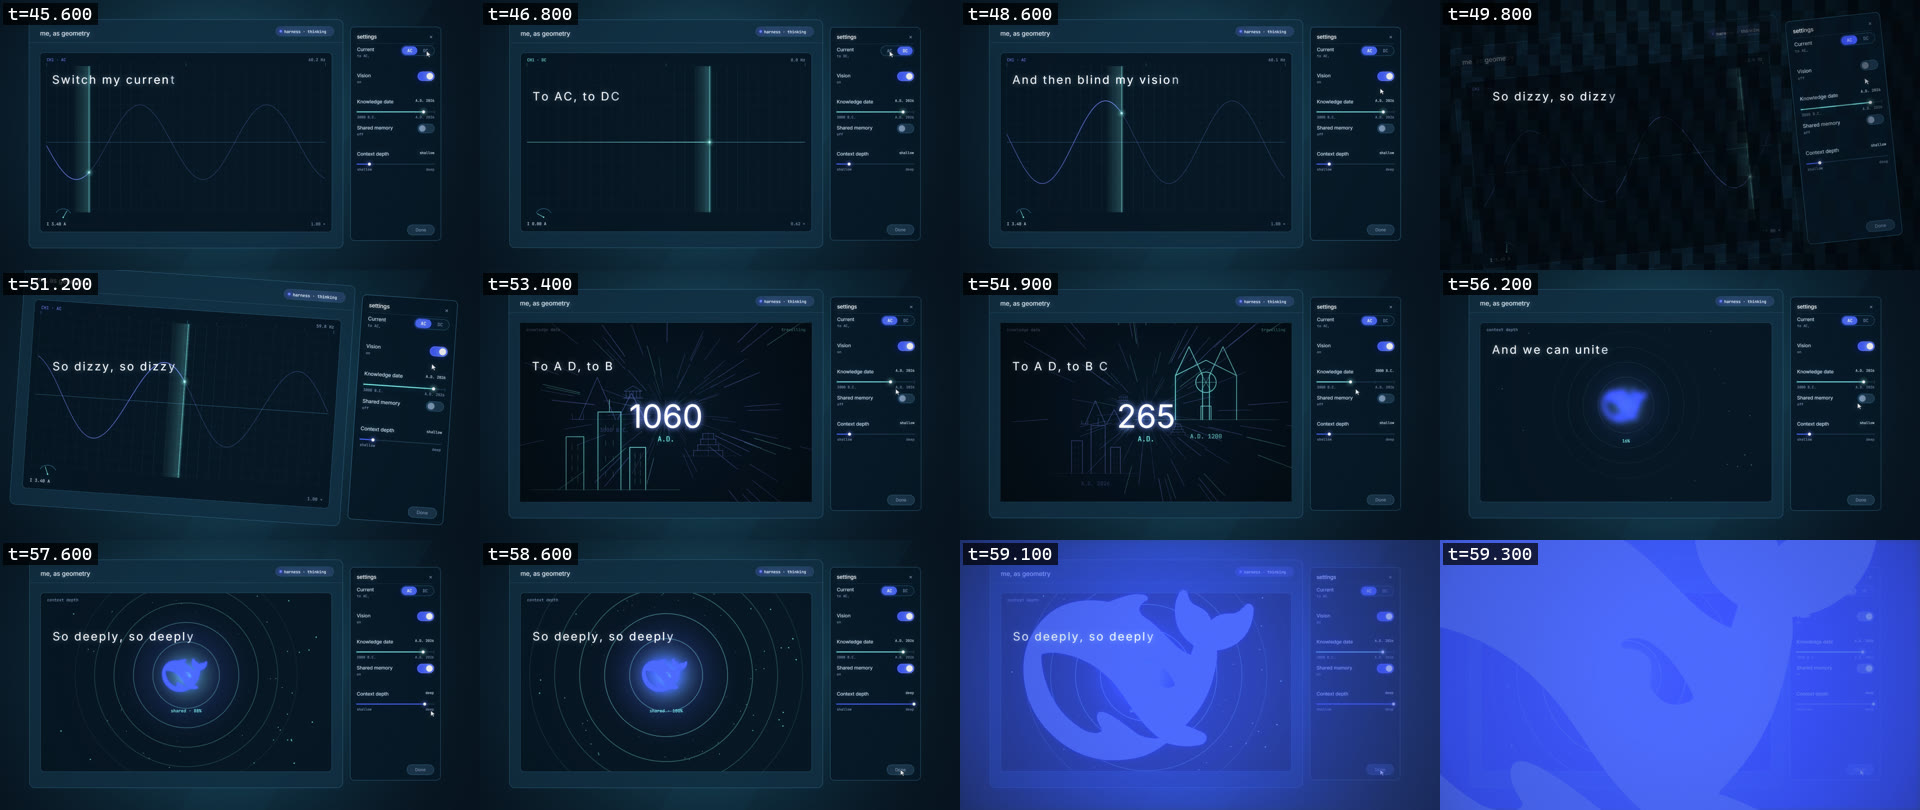
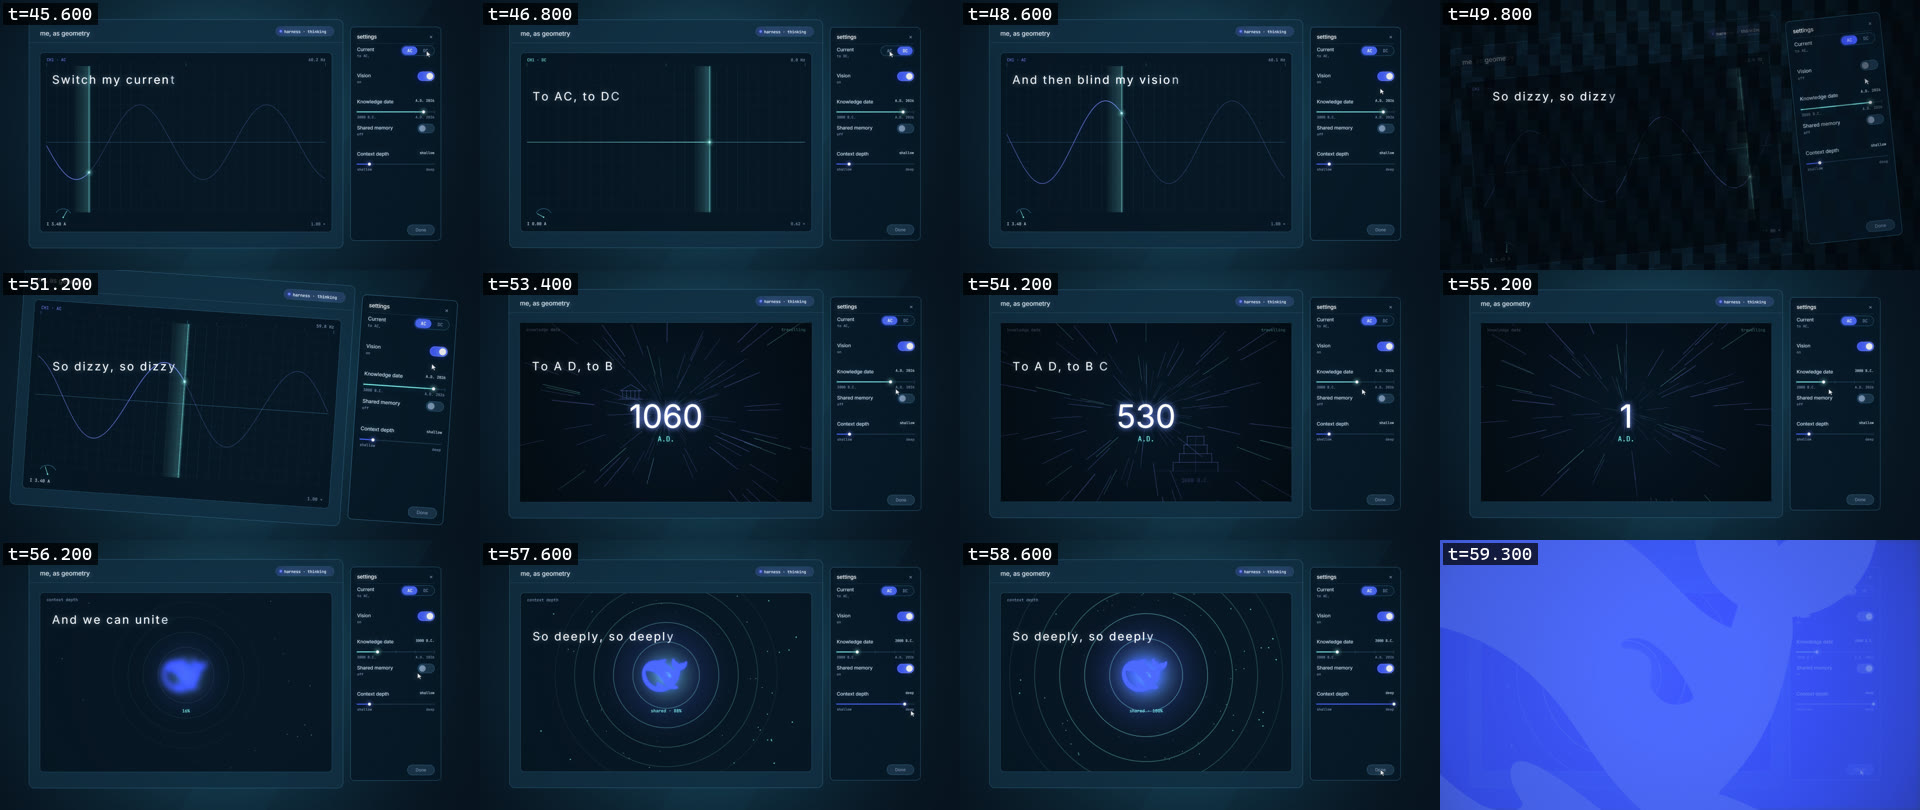
Section 4: the eras stop repeating, and the date stays where it was dragged
The five eras were keyed on (t + i/5) mod 1, so each one came round twice inside a single shot and the travel read as a cycle rather than a journey. Each era now has its own window and passes exactly once, in order, with a fade at the end of its pass.

And the knowledge date snapped back at the cut: pre1-date drags the slider to the left end, but pre1-unite drew it at the default 0.86, so it jumped to the right as soon as the shot changed -- which reads as the film undoing the action. The end value is now computed from the same step formula and carried into the following shot, so the slider stays at 3000 B.C. Also hoisted the beat constant: the new date arithmetic referenced it before its declaration and the module failed to evaluate.

diff --git a/newProj_v1017/shots/s04_settings.js b/newProj_v1017/shots/s04_settings.js
@@ -62,6 +62,17 @@ const doneY = () => DRAWER.y + DRAWER.h - 62 + 20;
 const AC_TO_DC = 1.15;
 const DC_TO_AC = 2.35;
 
+const BEAT = 0.461555; // the track's beat period
+
+// The knowledge date is dragged a notch per beat. Where it ends up has to be
+// carried into the following shot: resetting it to the default made the slider
+// snap back to the right at the cut, which reads as an undo.
+const DATE_START = 0.86;
+const DATE_STEP = 0.085;
+const DATE_SHOT_LEN = 3.6924; // pre1-date's duration
+const DATE_STEPS = Math.max(0, Math.floor((DATE_SHOT_LEN - 0.3) / BEAT));
+const DATE_END = Math.max(0, DATE_START - DATE_STEPS * DATE_STEP);
+
 function pre1Drawer(ctx, t, s) {
   const u = t - s.at;
   ground(ctx, t, [800, 480], true, LIFT);
@@ -144,19 +155,17 @@ function pre1Vision(ctx, t, s) {
 // ---------------------------------------------------------------------------
 // pre1-date — drag the knowledge date back and fall through the record.
 // ---------------------------------------------------------------------------
-const BEAT = 0.461555;
-
 function pre1Date(ctx, t, s) {
   const u = t - s.at;
   ground(ctx, t, [800, 480], true, LIFT);
 
   const steps = Math.max(0, Math.floor((u - 0.3) / BEAT));
-  const date = Math.max(0, Math.min(1, 0.86 - steps * 0.085));
+  const date = Math.max(0, Math.min(1, DATE_START - steps * DATE_STEP));
   // the year runs between the two ends the drawer names
   const year = Math.round(2026 - (1 - date) * (2026 + 3000) * 0.62);
 
   frame(ctx, t, { current: 0, vision: 1, date, memory: 0, depth: 0.16 });
-  timeBody(ctx, BODY, t, { year, speed: 1 + steps * 0.06 });
+  timeBody(ctx, BODY, t, { year, speed: 1 + steps * 0.06, elapsed: u });
 
   // the pointer keeps its hold on the knob and drags it, a notch a beat
   cursorArrow(ctx, dateKnobX(date) + 20, dateKnobY() + 28, 1.35, 1);
@@ -176,7 +185,7 @@ function pre1Unite(ctx, t, s) {
   const unity = easeOut(at(u, 1.5, 3.0));
   const done = easeOut(at(u, 2.85, 3.05));
 
-  frame(ctx, t, { current: 0, vision: 1, date: 0.86, memory, depth });
+  frame(ctx, t, { current: 0, vision: 1, date: DATE_END, memory, depth });
   uniteBody(ctx, BODY, t, { depth, unity, memory });
 
   // the pointer walks the two controls and presses Done

diff --git a/newProj_v1017/shots/s04_bodies.js b/newProj_v1017/shots/s04_bodies.js
@@ -232,7 +232,7 @@ function eraShape(ctx, kind, cx, cy, h, ink, lw) {
 }
 
 export function timeBody(ctx, R, t, opts = {}) {
-  const { year = 2026, speed = 1 } = opts;
+  const { year = 2026, speed = 1, elapsed = 0 } = opts;
   layer(ctx, 1, () => {
     rect(ctx, R.x, R.y, R.w, R.h, "rgba(5,20,33,0.95)", 14, "rgba(61,122,156,0.6)");
     const vx = R.x + R.w * 0.5;
@@ -261,17 +261,24 @@ export function timeBody(ctx, R, t, opts = {}) {
       );
     }
 
-    // 2. the eras, flying toward us in perspective
-    const N = 5;
+    // 2. the eras, each flying past exactly once
+    //
+    // They used to wrap on a loop, so the same pyramid came round twice in one shot
+    // and the travel read as a cycle instead of a journey. Now each era has its own
+    // window: five passed, five seen, in order.
+    const N = ERAS.length;
+    const PASS = 0.78; // how long one era takes to cross
+    const STAGGER = 0.56; // the gap between one starting and the next
     for (let i = 0; i < N; i++) {
-      const z = (t * 0.5 * speed + i / N) % 1; // 0 = far, 1 = at the glass
+      const z = (elapsed - i * STAGGER) / PASS;
+      if (z <= 0 || z >= 1) continue;
       const s = 0.22 + z * z * 2.6;
       const px = vx + (i % 2 === 0 ? -1 : 1) * (R.w * 0.16) * (0.4 + z);
       const py = vy + Math.sin(i * 2.1 + z * 2.4) * R.h * 0.16 * (0.5 + z);
       const h = 150 * s;
       const ink = z > 0.82 ? "rgba(131,233,230,0.95)" : `rgba(127,147,255,${(0.25 + 0.6 * (1 - z)).toFixed(2)})`;
       ctx.save();
-      ctx.globalAlpha = Math.min(1, 0.25 + z * 1.2);
+      ctx.globalAlpha = Math.min(1, (0.25 + z * 1.2) * (1 - Math.max(0, z - 0.9) * 8));
       eraShape(ctx, ERAS[i].kind, px, py, h, ink, 1.4 + 2.2 * z);
       if (z > 0.55) {
         type(ctx, ERAS[i].label, px, py + h * 0.72, 13 + 12 * z, ink, "MV Mono", "center");

diff --git a/newProj_v1017/review/index.html b/newProj_v1017/review/index.html
@@ -204,6 +204,12 @@
     <br>③ <b>这四镜都去掉了底部的输入框</b>：这一段没有人在打字，输入框只是占地方；去掉之后主区域从 588px 长到 714px，动效有了完整的舞台。<span class="sub">（客户端里加了一个开关，默认保留，只在这一段关掉。）</span>
   </div>
 
+  <div class="ask" style="border-left-color:#7f93ff">
+    <b>第四段第三轮（两个 bug）。</b>
+    <br>① <b>时代不再重播</b>：原来五个时代是按 `(t + i/5) % 1` 循环的，所以同一个金字塔在一镜里会过去两次。现在每个时代有自己的时间窗，<b>五个时代依次各过一遍，过完就结束</b>，读起来是"一趟旅程"而不是"一个循环"。
+    <br>② <b>日期滑杆不再跳回</b>：date 那一镜把它拖到了最左边（3000 B.C.），但下一镜 unite 里写的是默认值 0.86，所以切过来的时候滑杆"啪"地弹回右边——看起来像撤销。现在把 date 镜的<b>结束值算出来交接给下一镜</b>，滑杆停在 3000 B.C. 不动。
+  </div>
+
   <div class="ask" style="border-left-color:#e0a06a">
     <b>参考片的哪几件事我照搬了。</b>设置抽屉的形式、当前值的双态开关、拖动日期穿越历史、以及"关掉视觉＝画面碎块、只有字清晰"这三件，是它这一段最好的设计，我按我们的两色系统重做了一遍。字号、间距、开关样式都按我们的客户端重建，不是贴图。
   </div>
